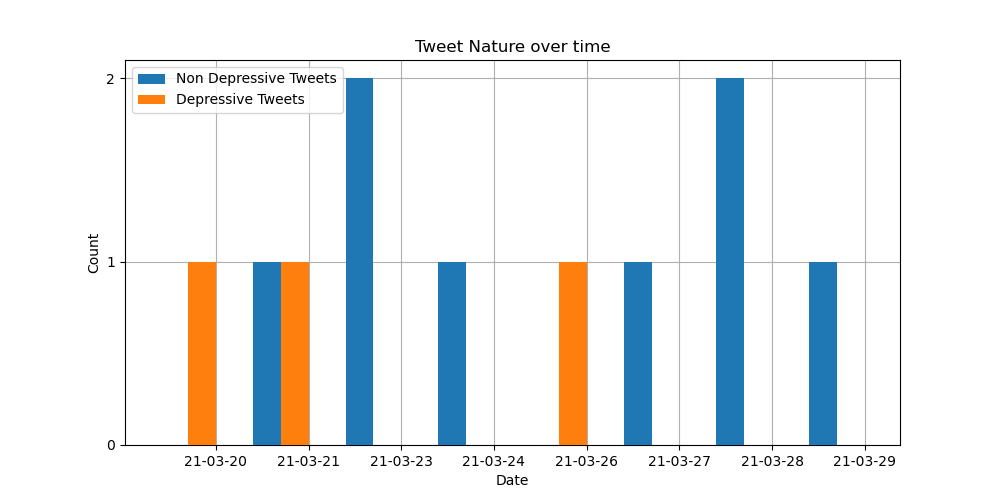
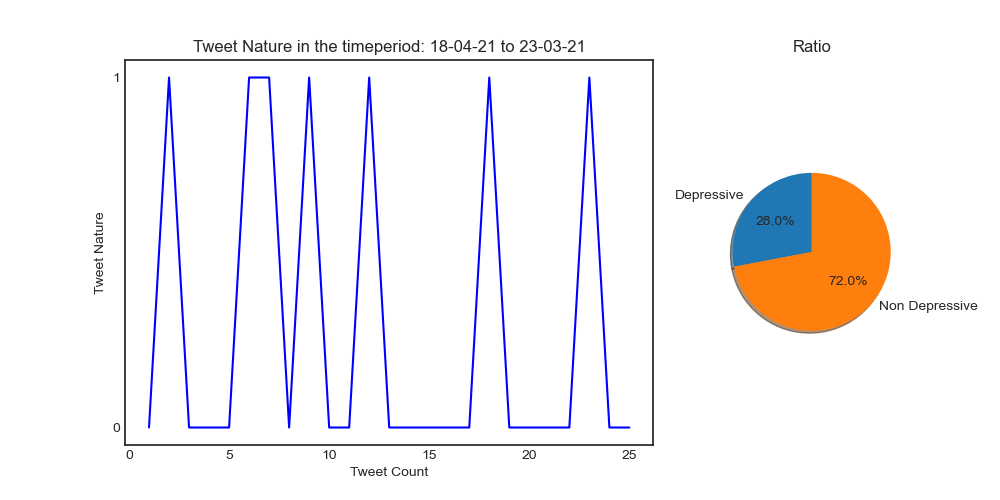
Using tweepy for scraping

diff --git a/templates/index.html b/templates/index.html
@@ -46,10 +46,8 @@
     <form action="{{ url_for('plot_png')}}"method="post">
         <label for="username">Username</label>
         <input type="text" name="username" placeholder="username" required="required" />
-        <label for="startdate">Start date</label>
-        <input type="date" name="startdate" placeholder="start date" required="required" />
-        <label for="enddate">End date</label>
-		<input type="date" name="enddate" placeholder="enddate" required="required" />
+        <label for="count">Input the no. of tweets you wish to analyze</label>
+        <input type="number" name="count" required="required" min="1" max="3200" />
 
         <button type="submit" class="btn btn-primary btn-block btn-large">Submit</button>
     </form>

diff --git a/app.py b/app.py
@@ -7,10 +7,13 @@ import io
 from matplotlib.backends.backend_agg import FigureCanvasAgg as FigureCanvas
 from matplotlib.figure import Figure
 import matplotlib.pyplot as plt
-
+from datetime import datetime
+from matplotlib import  gridspec
 app = Flask(__name__)
 model = pickle.load(open(r'model.pkl', 'rb'))
 tv=pickle.load(open(r'tv.pkl', 'rb'))
+
+
 
 #default page of our web-app
 @app.route('/')
@@ -24,65 +27,44 @@ def plot_png():
     print("The form is loaded")
     if request.method == 'POST':
         username = request.form['username']
-        startdate= request.form['startdate']
-        enddate = request.form['enddate']
+        count= request.form['count']
 
-    data = scraper(username, startdate, enddate)
+
+    data,start_date,end_date = scraper(username, count)
     data = predict(data, tv, model)
-    fig = create_figure(data)
+    fig = create_figure(data,start_date,end_date)
     output = io.BytesIO()
     FigureCanvas(fig).print_png(output)
     return Response(output.getvalue(), mimetype='image/png')
     #return render_template('plot.html', name='new_plot', url='/static/images/plot.png')
 
 
-def create_figure(data):
-    dates = data['date'].unique()
-    count_depressive = dict.fromkeys(dates, 0)
-    count_non_depressive = dict.fromkeys(dates, 0)
+def create_figure(data,start_date,end_date):
+    plt.style.use('seaborn-white')
+    fig = plt.figure(figsize=(10, 5))
+    gs = gridspec.GridSpec(1, 2, width_ratios=[3, 1])
+    ax0 = plt.subplot(gs[0])
+    ax1 = plt.subplot(gs[1])
+    x = list(range(1, len(data) + 1))
 
-    for i in range(len(data)):
-        if data.loc[i, 'prediction'] == 1:
-            count_depressive[data.loc[i, 'date']] += 1
-        else:
-            count_non_depressive[data.loc[i, 'date']] += 1
-
-    # Numbers of pairs of bars you want
-    N = 2
-    # Data on X-axis
-    # Specify the values of blue bars (height)
-    blue_bar = list(count_non_depressive.values())
-    # Specify the values of orange bars (height)
-    orange_bar = list(count_depressive.values())
-    max1 = max(blue_bar)
-    max2 = max(orange_bar)
-    max_overall = max(max1, max2)
-    # Position of bars on x-axis
-    ind = np.arange(len(blue_bar))
-
-    fig, ax = plt.subplots(figsize=(10, 5))
-    # Figure size
-
-    # Width of a bar
-    width = 0.3
-
-    # Plotting
-    ax.bar(ind - width / 2, blue_bar, width, label='Non Depressive Tweets', zorder=100)
-    ax.bar(ind + width / 2, orange_bar, width, label='Depressive Tweets', zorder=100)
-
-    ax.set_xlabel('Date')
-    ax.set_ylabel('Count')
-    ax.set_title('Tweet Nature over time')
-
-    # xticks()
-    # First argument - A list of positions at which ticks should be placed
-    # Second argument -  A list of labels to place at the given locations
-    ax.set_xticks(ind + width)
-    ax.set_xticklabels((list(count_non_depressive.keys())))
-    ax.set_yticks(range(0, max_overall + 1))
+    # plot line plot
+    ax0.plot(x, data['prediction'], color='blue')
+    ax0.set_yticks(range(0, 2))
     # Finding the best position for legends and putting it
-    ax.legend(loc='best')
-    ax.grid(zorder=2)
+    ax0.legend(loc='best')
+    ax0.set_xlabel('Tweet Count')
+    ax0.set_ylabel('Tweet Nature')
+    ax0.set_title('Tweet Nature in the timeperiod: {} to {}'.format(start_date, end_date))
+
+    labels = 'Depressive', 'Non Depressive'
+    sizes = [100 * data['prediction'].tolist().count(1) / len(data),
+             100 * data['prediction'].tolist().count(0) / len(data)]
+    colors = ["Red", "Blue"]
+    # plot pie chart
+    ax1.pie(sizes, labels=labels, autopct='%1.1f%%',
+            shadow=True, startangle=90)
+    ax1.axis('equal')  # Equal aspect ratio ensures that pie is drawn as a circle.
+    ax1.set_title('Ratio')
     fig.savefig('static/images/plot.png')
     return fig
 

diff --git a/utils.py b/utils.py
@@ -21,7 +21,17 @@ from datetime import date,timedelta
 import pickle
 import matplotlib.pyplot as plt
 import numpy as np
+from datetime import datetime
 
+
+from creds import CONSUMER_KEY,CONSUMER_SECRET,access_token,access_token_secret
+import tweepy
+# authorization of consumer key and consumer secret
+auth = tweepy.OAuthHandler(CONSUMER_KEY, CONSUMER_SECRET)
+# set access to user's access key and access secret
+auth.set_access_token(access_token, access_token_secret)
+# calling the api
+api = tweepy.API(auth)
 
 
 # Expand Contraction
@@ -189,24 +199,25 @@ def clean_tweets(tweets):
     return cleaned_tweets
 
 
-def scraper(username, since, until):
-  # place id of india is b850c1bfd38f30e0
+def scraper(username, count):
+  # fetching the statuses
+  statuses = api.user_timeline(username, tweet_mode='extended', count=25)
 
-  # df = pd.DataFrame(itertools.islice(sntwitter.TwitterSearchScraper(
-  #     'from:{}'.format(username)).get_items(), no_of_tweets))
-  # df = df.loc[:, ['date', 'content']]
-  # return df
-  df = pd.DataFrame(itertools.islice(sntwitter.TwitterSearchScraper(
-    'from:{} since:{} until:{}'.format(username, since, until)).get_items(), 10000))
-  df = df.loc[:, ['date', 'renderedContent']]
-  return df
+  json_data = [s._json for s in statuses]
+
+  df = pd.io.json.json_normalize(json_data)
+  start_date = df.iloc[0, 0]
+  start_date = datetime.strftime(datetime.strptime(start_date, '%a %b %d %H:%M:%S +0000 %Y'), '%d-%m-%y')
+  end_date = df.iloc[-1, 0]
+  end_date = datetime.strftime(datetime.strptime(end_date, '%a %b %d %H:%M:%S +0000 %Y'), '%d-%m-%y')
+
+  df = df.loc[:, ['full_text']]
+  return df, start_date, end_date
 
 
 def predict(data, tv, model):
-  test_array = tv.transform(clean_tweets(data['renderedContent'])).toarray()
+  test_array = tv.transform(clean_tweets(data['full_text'])).toarray()
   prediction = model.predict(test_array)
 
   data['prediction'] = prediction
-  data['date'] = data['date'].dt.strftime("%y-%m-%d")
-  data = data.sort_values(by=['date'])
   return data

diff --git a/creds.py b/creds.py
@@ -1,0 +1,4 @@
+CONSUMER_KEY='u9L8y92xb1S0OrqydndNzM3Al'
+CONSUMER_SECRET='UD0Rt625HHjnMwWKc5PH0YPLO2JE8aOzuGq39vLfVBU9zYWlm4'
+access_token='1308707110281195521-kYVJKftHmUlBEGNPIDzgH6iBuVBaxH'
+access_token_secret='VuvHmZ52CSTleeiFAnUXnF00rK9LmToi0zZRQiZRkuDGQ'
